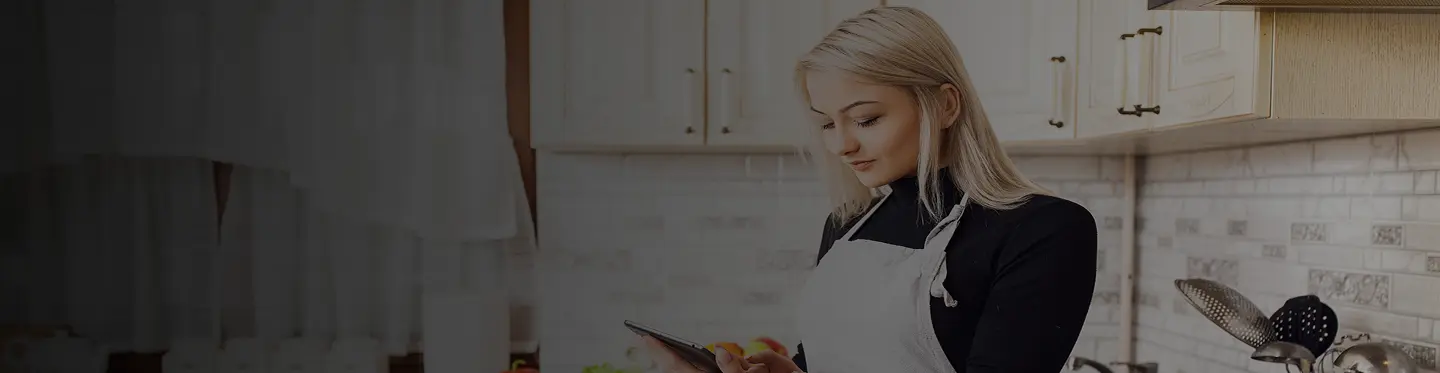
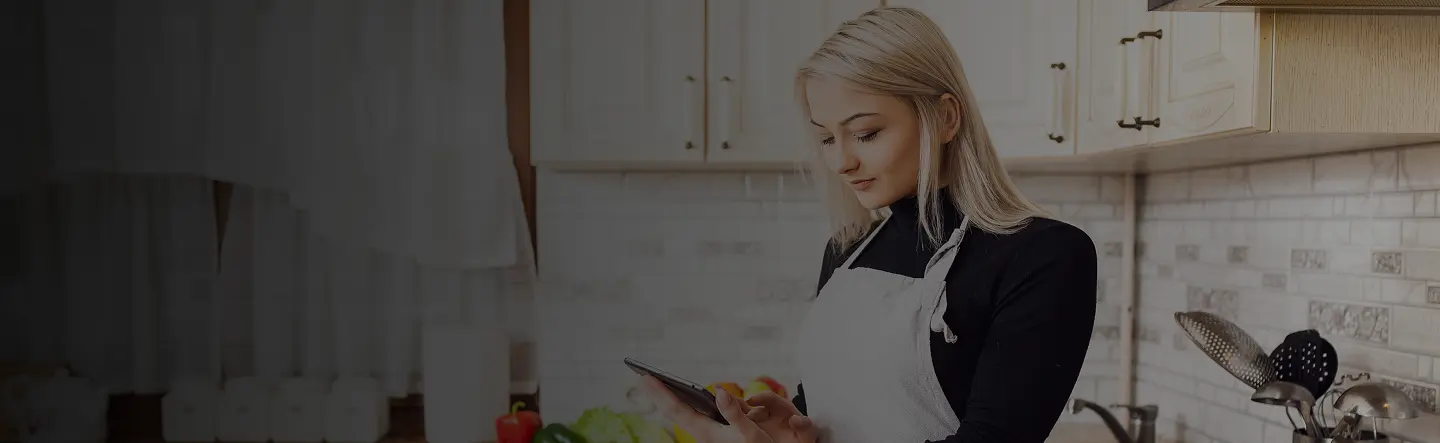
hero_fixed

diff --git a/src/components/Hero/Hero.module.css b/src/components/Hero/Hero.module.css
@@ -1,12 +1,12 @@
 .hero {
   background-image: url("/images/heromobil-bg.webp");
-  background-position: center;
   background-size: cover;
-  padding: 0 16px;
-  padding-bottom: 98px;
-  padding-top: 128px;
+  background-repeat: no-repeat;
+  background-position: center;
   display: flex;
   justify-content: center;
+  padding-bottom: 98px;
+  padding-top: 128px;
 }
 
 .content {
@@ -14,6 +14,7 @@
   flex-direction: column;
   align-items: center;
   max-width: 329px;
+  /* padding: 0 16px; */
 }
 
 .title {
@@ -26,7 +27,6 @@
 
 @media only screen and (min-width: 768px) {
   .hero {
-    padding: 0;
     padding-bottom: 128px;
     background-image: url("/images/herotablet-bg.webp");
     display: block;
